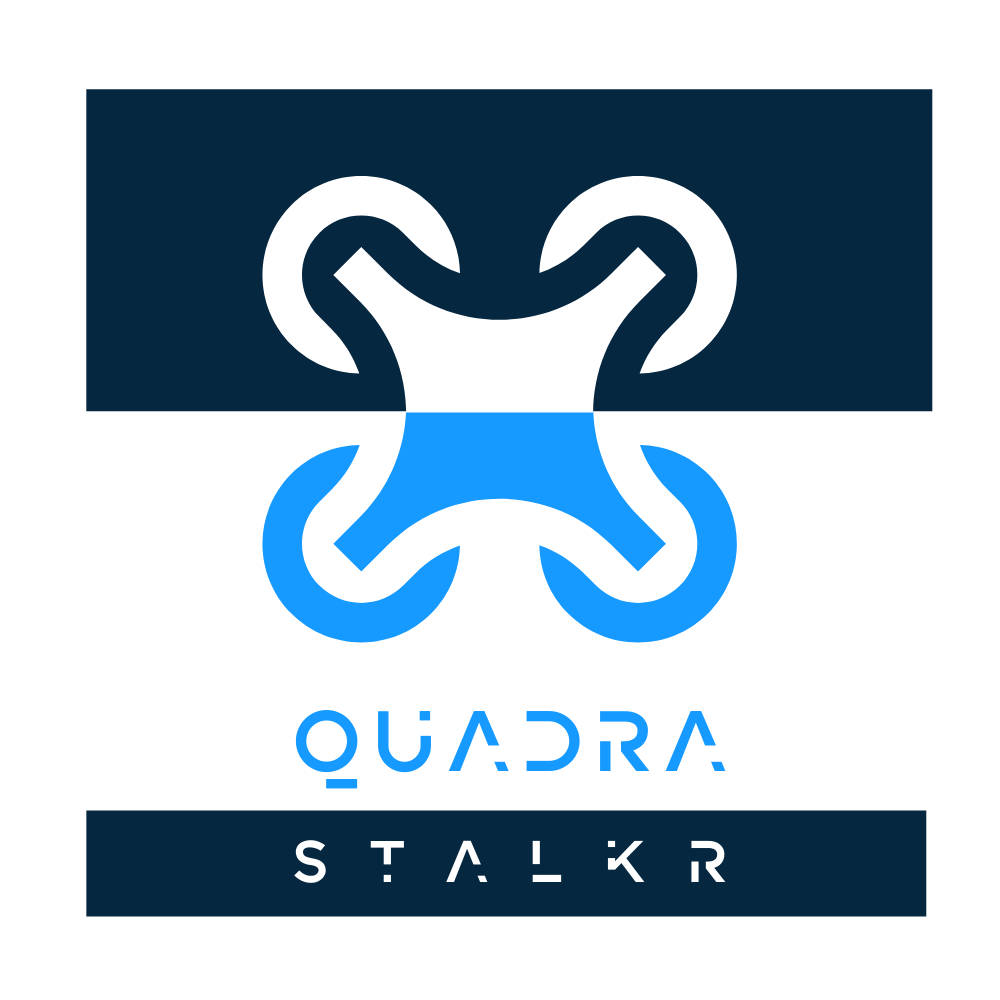
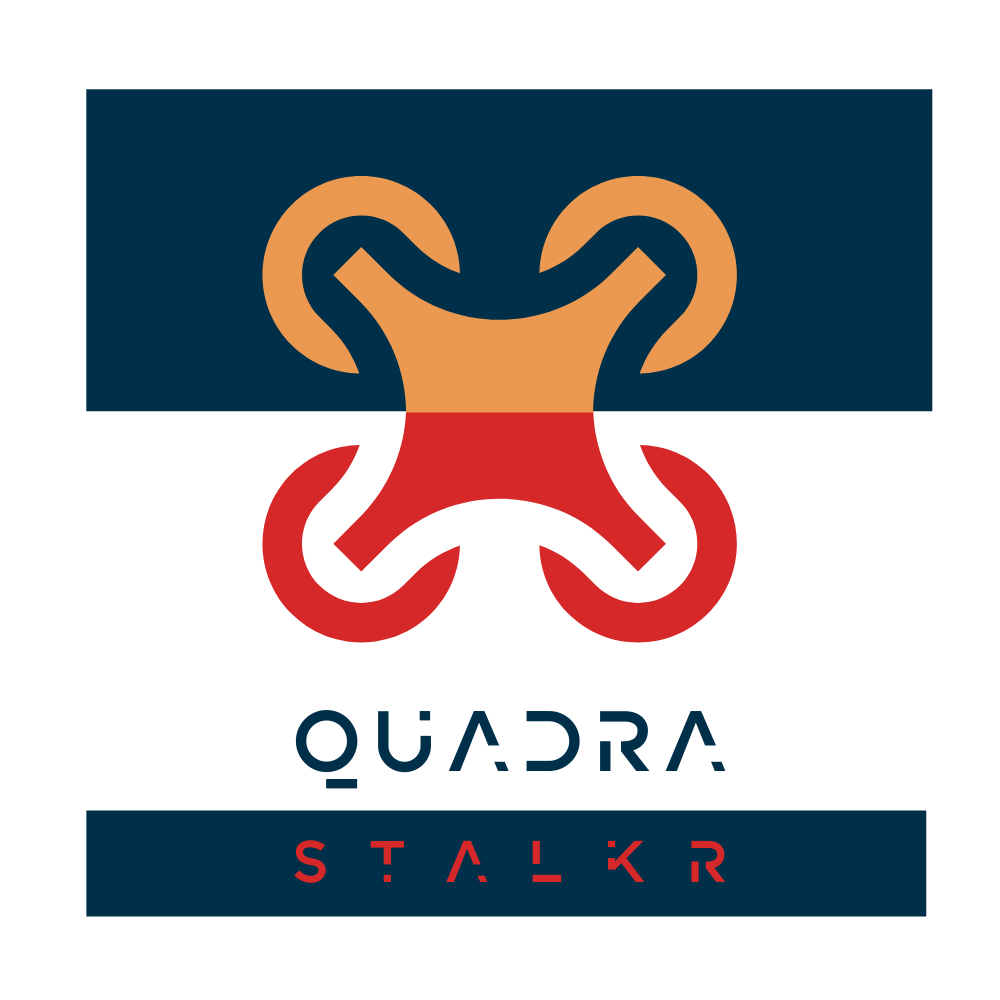
adds more aggressive color scheme and cleans up a lot of css, switched buttons from height and weight to padding, unifies buttongs, and stuff :fire: :alien: :fire:

diff --git a/css/styles.css b/css/styles.css
@@ -2,20 +2,37 @@
 
 :root {
   /* first test color palette */
-  --brown: #854D04;
-  --green: #30D158;
-  --light-brown: #D0821C; 
-  --purple: #5C06D1;
-  --dark-purple: #3e0b85;
-  /* second color palette */
-  --bright-blue: #169AFF; 
+  --intense-purple: #2228B5;
+  --dark-purple: #404282;
   --less-bright-blue: #148CE8; 
-  --med-bright-blue: #148AE5; 
-  --dark-blue: #0B4D7F;
-  --dark-blue-transparency: rgba(11, 77, 127, .65)
-  --dark-dark-blue: #062740;
-  /* third */
-  --muted-gray: #A6B4B8;
+  --light-brown: #EB9850;
+  --dark-brown: #B55122;
+
+  /* more aggressive theme */
+  --maximum-red: #D62828;
+  --prussian-blue: #003049;
+  --orange: #F77F00;  
+
+  --shadow-color: 201deg 100% 7%;
+  --shadow-elevation-low:
+    0px 0.6px 0.6px hsl(var(--shadow-color) / 0.32),
+    0px 0.8px 0.7px -1.9px hsl(var(--shadow-color) / 0.25),
+    0px 1.9px 1.8px -3.8px hsl(var(--shadow-color) / 0.17);
+  --shadow-elevation-medium:
+    0px 0.6px 0.6px hsl(var(--shadow-color) / 0.34),
+    0px 1.3px 1.2px -1.3px hsl(var(--shadow-color) / 0.28),
+    0px 3.6px 3.3px -2.6px hsl(var(--shadow-color) / 0.22),
+    0px 9.7px 8.9px -3.8px hsl(var(--shadow-color) / 0.16);
+  --shadow-elevation-high:
+    0px 0.6px 0.6px hsl(var(--shadow-color) / 0.31),
+    0px 1.5px 1.4px -0.5px hsl(var(--shadow-color) / 0.29),
+    0px 2.7px 2.5px -1.1px hsl(var(--shadow-color) / 0.26),
+    0px 5px 4.6px -1.6px hsl(var(--shadow-color) / 0.23),
+    0px 8.9px 8.2px -2.2px hsl(var(--shadow-color) / 0.2),
+    0px 15.2px 14px -2.7px hsl(var(--shadow-color) / 0.18),
+    -0.1px 24.4px 22.5px -3.3px hsl(var(--shadow-color) / 0.15),
+    -0.1px 37.1px 34.2px -3.8px hsl(var(--shadow-color) / 0.12);
+
 }
 
 * {
@@ -32,7 +49,7 @@
 
 a  {
   text-decoration: none;
-  color: slategray;
+  color: var(--prussian-blue);
 }
 
 h1 {
@@ -45,7 +62,7 @@ html {
 }
 
 label, input {
-  color: var(--muted-gray);
+  color: var(--orange);
   font-family: Ultima, sans-serif;
   font-size: 1.80rem;
   font-style: normal;
@@ -54,16 +71,44 @@ label, input {
   padding: 17px;
   text-decoration: none;
   width: min-content;
+  transition: all 250ms ease-in-out;
+  border-radius: ;
+}
+
+#submit:hover {
+  color: white; 
+  background-color: var(--orange);
+  transition: all 250ms ease-in-out;
+  font-size: 1.9rem;
+  border: 3px solid white;
+}
+
+#submit {
+  border-radius: 5px;
+  border: 3px solid var(--orange)
+  padding: 1rem 1.75rem;
+  margin: auto auto auto 2rem;
+  background-color: var(--orange);
+  font-weight: bold;
+  font-size: 1.80rem;
+  text-transform: uppercase;
+  color: white;
+  box-shadow: 1.7px 1.3px 2.2px rgb(0 0 0 / 2%), 4.2px 3.1px 5.3px rgb(0 0 0 / 3%), 7.9px 5.8px 10px rgb(0 0 0 / 4%), 14.1px 10.3px 17.9px rgb(0 0 0 / 4%), 26.3px 19.2px 33.4px rgb(0 0 0 / 5%), 63px 46px 80px rgb(0 0 0 / 7%);
 }
 
 p {
-  color: #4f4f4f;
+  color: var(--prussian-blue);
   font-family: study, serif;
   font-size: 1.5rem;
   font-style: normal;
   font-weight: 100;
   margin: 4em auto auto auto;
   max-width: 597px;
+}
+
+::placeholder {
+  color: rgba(247, 127, 0, .3)
+
 }
 
 ul {
@@ -101,8 +146,8 @@ body {
   color: var(--brown);
 }
 
-.bright-blue {
-  color: var(--bright-blue)
+.red {
+  color: var(--maximum-red)
 }
 
 .c {
@@ -143,7 +188,7 @@ body {
 .call-to-action--title {
   transition: color 2s ease-in-out, box-shadow 2s ease-in-out;
   margin: 20vh 0 0 0;
-  padding: 1rem 2rem 1rem 4rem;
+  padding: 2rem 3rem 2rem 7rem;
 }
 
 .mission-section-container {
@@ -151,8 +196,8 @@ body {
   padding: 0 .25rem;
   width: 50%; 
   text-align: left;
-  color: var(--dark-dark-blue);
-  box-shadow: inset 0px 0px 0px 0px var(--dark-dark-blue);
+  color: var(--prussian-blue);
+  box-shadow: inset 0px 0px 0px 0px var(--prussian-blue);
   transition: color 2s ease-in-out, box-shadow 2s ease-in-out;
   -webkit-backface-visibility: hidden;
   -webkit-transform-style: preserve-3d;
@@ -165,8 +210,8 @@ body {
   margin-left: 50%;
   width: 50%;
   text-align: left;
-  color: var(--dark-dark-blue);
-  box-shadow: inset 0px 0px 0px 0px var(--dark-dark-blue);
+  color: var(--prussian-blue);
+  box-shadow: inset 0px 0px 0px 0px var(--prussian-blue);
   transition: color 2s ease-in-out, box-shadow 2s ease-in-out;
   -webkit-backface-visibility: hidden;
   -webkit-transform-style: preserve-3d;
@@ -174,13 +219,13 @@ body {
 }
 
 .mission-section-container-hover {
-  box-shadow: inset 3000px 0px 0px 0px var(--dark-dark-blue);
-  color: white;
+  box-shadow: inset 3000px 0px 0px 0px var(--prussian-blue);
+  color: var(--orange);
 }
 
 .products-section-container-hover {
-  box-shadow: inset 0px 0px 0px 3000px var(--dark-dark-blue);
-  color: white;
+  box-shadow: inset 0px 0px 0px 3000px var(--prussian-blue);
+  color: var(--orange);
 }
 
 .center-div {
@@ -197,17 +242,12 @@ body {
 }
 
 .dark-dark-blue {
-  color: var(--dark-dark-blue)
+  color: var(--prussian-blue)
 }
 
 .form {
-  background-color: white;
-  box-shadow: aquamarine;
-  box-shadow: 0px 2px 17px 0px rgb(0 0 0 / 66%);
-  -webkit-box-shadow: 0px 2px 17px 0px rgb(0 0 0 / 66%);
-  -moz-box-shadow: 0px 2px 17px 0px rgba(0,0,0,0.66);
-  -webkit-box-shadow: linear-gradient(144deg, rgba(2,0,36,1) 0%, rgba(4,0,95,1) 33%, rgba(123,0,253,1) 68%, rgba(2,0,36,1) 96%);
-  -webkit-box-shadow: 0px 2px 17px 0px rgb(139 84 84 / 50%);
+  background-color: var(--prussian-blue);
+  box-shadow: var(--shadow-elevation-high);
   height: 43vh;
   margin: 0 auto 5em auto;
   padding: 5em;
@@ -263,8 +303,8 @@ body {
   width: 25%;
 }
 
-.less-bright-blue {
-  color: var(--less-bright-blue);
+.orange {
+  color: var(--orange);
 }
 
 .med-bright-blue {
@@ -309,7 +349,7 @@ body {
 }
 
 .nav-link {
-  color: white;
+  color: var(--orange);
   font-family: Ultima, sans-serif;
   font-size: 2.8rem;
   margin: 4em 25px;
@@ -331,10 +371,10 @@ body {
 .nav-link-2:hover {
   background-color: rgba(255,255,255,.1);
   border: 2px solid;
-  border-bottom-color: white;
+  border-bottom-color: var(--maximum-red);
   border-left-color: transparent;
   border-right-color: transparent;
-  border-top-color: white;
+  border-top-color: var(--maximum-red);
   text-shadow: -1px 1px 4px rgba(11, 77, 127, .65);
   height: 7vh;
   margin: 0;
@@ -348,11 +388,11 @@ body {
 .nav-hover-javascript {
   background-color: rgba(255,255,255,.1);
   border: 2px solid;
-  border-bottom-color: white;
+  border-bottom-color: var(--maximum-red);
   border-left-color: transparent;
   border-right-color: transparent;
-  border-top-color: white;
-  text-shadow: -1px 1px 4px rgba(11, 77, 127, .65);
+  border-top-color: var(--maximum-red);
+  text-shadow: -1px 1px 4px rgba(0, 48, 73, .65);
   height: 7vh;
   margin: 0;
   padding: .25em;

diff --git a/index.html b/index.html
@@ -51,12 +51,12 @@
     <!-- end video-container -->
     <section class="section">
       <div class="mission-section-container" id="mission-section-container-id">
-        <h1 id="mission_section_header" class="call-to-action--title">QUADRA<span class="less-bright-blue">Stalkr</span> Mission:</h1>
+        <h1 id="mission_section_header" class="call-to-action--title">QUADRA<span class="red">Stalkr</span> Mission:</h1>
       </div>
          <!-- end mission section container -->
-        <p>QUADRAStalkr Drones was established in Silicon Slopes when four soldiers and their caffeine habits asked themselves what could happen if they were to build a man-portable drone with military specs, COMSEC capabilities, DARPA quality engineering, but <span class="less-bright-blue bold">with a user interface even a grunt could understand.</span></p>
+        <p>QUADRAStalkr Drones was established in Silicon Slopes when four soldiers and their caffeine habits asked themselves what could happen if they were to build a man-portable drone with military specs, COMSEC capabilities, DARPA quality engineering, but <span class="orange bold">with a user interface even a grunt could understand.</span></p>
       
-        <p>Since that time QUADRAStalkr started in 2008, it has gained endorsement from Black Rifle Coffee, Elon Musk, techardar.com, wired magazine, and even Dr. Anthony Fauci. <span class="less-bright-blue bold">If this drone was a date, your Dad would invite him back and your Mom would cook him breakfast.</span>  That's how good it is.</p>
+        <p>Since that time QUADRAStalkr started in 2008, it has gained endorsement from Black Rifle Coffee, Elon Musk, techardar.com, wired magazine, and even Dr. Anthony Fauci. <span class="orange bold">If this drone was a date, your Dad would invite him back and your Mom would cook him breakfast.</span>  That's how good it is.</p>
 
         <p class="margin-bottom"><em>None of these statements have been evaluated by the FDA, CDC, CIA or any of the other aforementioned people.</em> I mean, cummon, this is only a project website.  Loosen up, man!</p>
       <div id="products_section" class="mission-section">
@@ -84,7 +84,7 @@
       <!-- end section row 3 -->
     <section>
       <div class="catalog-section-container" id="catalog-section-container-id">
-        <h1 id="products_section_header" class="call-to-action--title">QUADRA<span class="bright-blue">Stalkr</span> Products:</h1>
+        <h1 id="products_section_header" class="call-to-action--title">QUADRA<span class="red">Stalkr</span> Products:</h1>
       </div>
       <!-- end catalog-section-container -->
       <!-- <p class="margin-bottom">Lorem ipsum dolor sit amet, consectetur adipiscing elit, sed do eiusmod tempor incididunt ut labore et dolore magna aliqua. Ut enim ad minim veniam, quis nostrud exercitation ullamco laboris nisi ut aliquip ex ea commodo consequat. Duis aute irure dolor in reprehenderit in voluptate velit esse cillum dolore eu fugiat nulla pariatur. Excepteur sint occaecat cupidatat non proident, sunt in culpa qui officia deserunt mollit anim id est laborum.</p> -->
